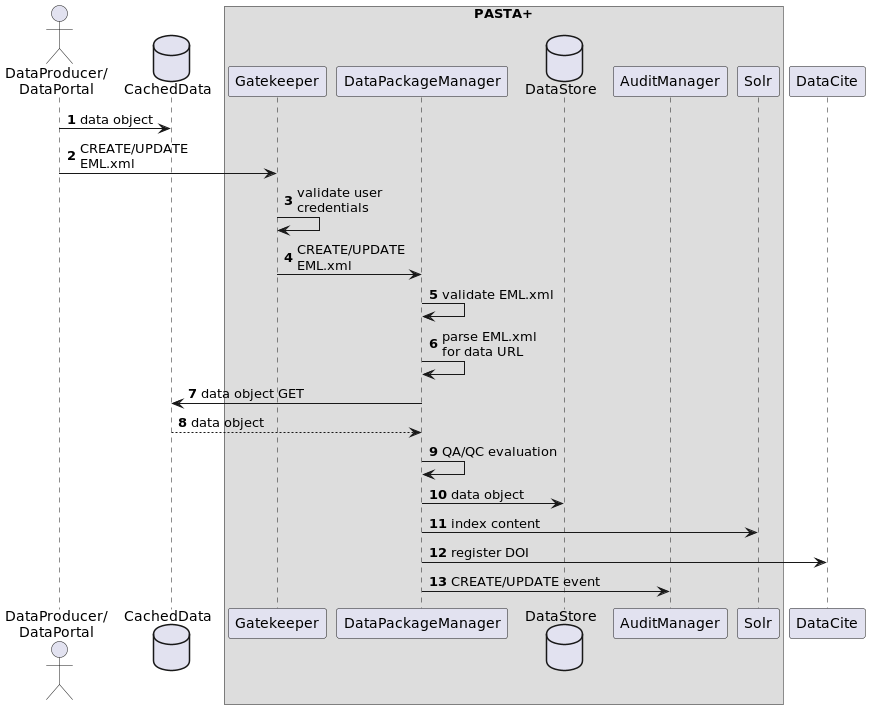
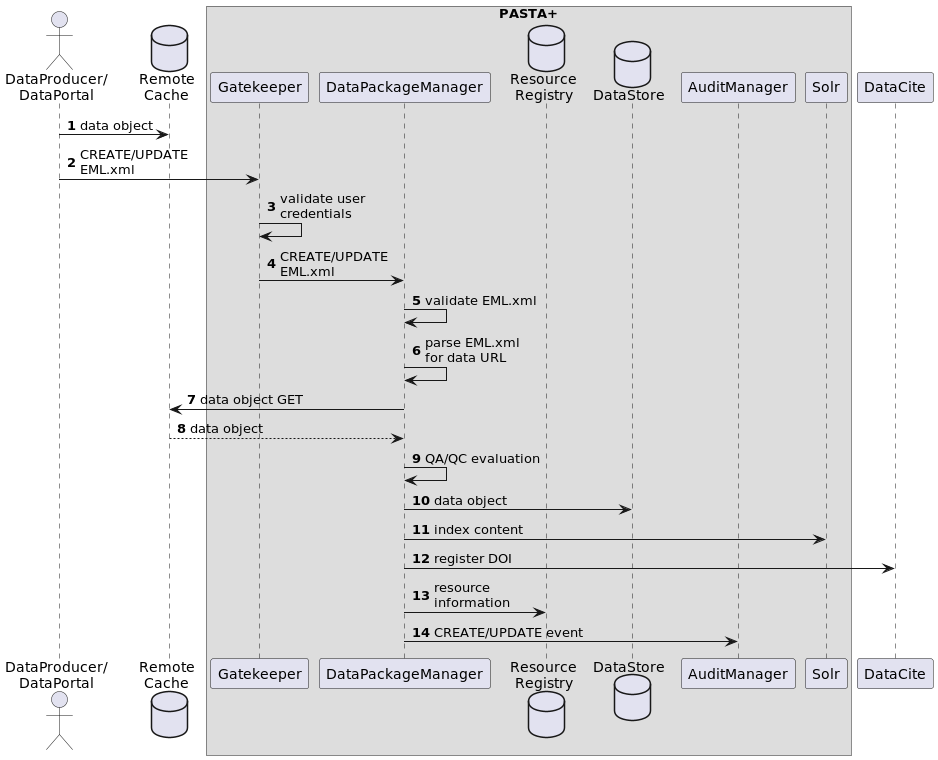
Update content

Changed region(s): [[0.0, 0.0, 1.0, 1.0], [0.7448, 0.6827, 0.8069, 0.7137]]

diff --git a/documentation/doc_tree/pasta_sop/archive_life_cycle.rst b/documentation/doc_tree/pasta_sop/archive_life_cycle.rst
@@ -35,12 +35,14 @@ writes them to a permanent data store (**Step 10**). Next, the *Data Package
 Manager* extracts specific search information from the EML and indexes it in the
 *Solr* search service (**Step 11**), followed by the creation and registration
 of a Digital Object Identifier (DOI) for the data package to the *DateCite* DOI
-registry (**Step 12**). Finally, the *Data Package Manager* generates an audit
-event and registers it with the *Audit Manager* service (**Step 13**).
+registry (**Step 12**). Next, the data package resource information is recorded
+in the *resource registry* database table (**Step 13**). Finally, the Data
+Package Manager* generates an audit event and registers it with the *Audit
+Manager* service (**Step 14**).
 
 .. figure:: images/archive_life_cycle.png
     :align: center
-    :scale: 100%
+    :scale: 80%
 
     UML sequence diagram of a data package life cycle in the EDI data
     repository.
@@ -103,15 +105,64 @@ package -- older revisions are overwritten within the index.
 Object Identifier* (DOI) with *DataCite*, a DOI registrar that specifically
 supports DOI registration of data objects. The DOI value is generated on a
 unique namespace value associated with the data package. EDI is a direct
-member of DataCite and is assigned the DOI shoulder value of `10.6073`.
+member of DataCite and is assigned the DOI shoulder value of `10.6073`. If
+the registration request to DataCite fails, the *Data Package Manager* will
+reattempt to perform the registration on hourly basis until a successful
+registration occurs.
 
-**Step 13:** The final step of the life cycle occurs when the *Data Package
-Manager* inserts a repository audit event record into the *event database table*
+**Step 13:** At this point in the life cycle, the *Data Package Manager* sets
+data package resource information (information about each component of the data
+package) into the *resource registry* database table. The schema definition
+for the table is below:
+
+.. code-block:: sql
+
+    CREATE TYPE datapackagemanager.resource_type AS ENUM ('data', 'dataPackage', 'metadata', 'report');
+    CREATE TABLE datapackagemanager.resource_registry (
+      resource_id VARCHAR(350) NOT NULL,                        -- resource id, the primary key
+      doi VARCHAR(256),                                         -- digital object identifier (DOI)
+      resource_type datapackagemanager.resource_type NOT NULL,  -- resource type
+      resource_location VARCHAR(500),                           -- root location for this resource (referenced by entity resources only)
+      package_id VARCHAR(100) NOT NULL,                         -- the EML 'packageId' attribute value
+      scope VARCHAR(100) NOT NULL,                              -- the scope
+      identifier INT8 NOT NULL,                                 -- the identifier
+      revision INT8 NOT NULL,                                   -- the revision
+      entity_id VARCHAR(256),                                   -- the entity id (as appears in the URL)
+      entity_name VARCHAR(256),                                 -- the entity name (as appears in the EML)
+      principal_owner VARCHAR(250) NOT NULL,                    -- the principal who owns this resource
+      date_created TIMESTAMP NOT NULL,                          -- creation date/time
+      date_deactivated TIMESTAMP,                               -- deactivation date/time; NULL indicates still active
+      filename TEXT,                                            -- the filename of this resource
+      md5_checksum CHAR(32),                                    -- MD5 checksum of this resource, a 32-character hexadecimal string
+      sha1_checksum CHAR(40),                                   -- SHA-1 checksum of this resource, a 40-character hexadecimal string
+      format_type VARCHAR(100),                                 -- the metadata format type, e.g. 'eml://ecoinformatics.org/eml-2.1.1'
+      mime_type VARCHAR(100),                                   -- the mime type, e.g. 'text/csv'
+      resource_size BIGINT,                                     -- the size of the resource in bytes
+      data_format TEXT,                                         -- the data format as determined by parsing the EML
+    );
+
+
+**Step 14:** The final step of the life cycle occurs when the *Data Package
+Manager* inserts a repository audit event record into the *event* database table
 of the :doc:`Audit Manager </doc_tree/pasta_design/audit_manager>` service.
-This audit event includes 1) the user identifier and group associations, 2) the
-date and time of the event, 3) the service requested, 4) the outcome status of
-the event, 5) the resource identifier resulting from the event, and 6) any
-accessory information associated with the event.
+The schema definition for the table is below:
+
+.. code-block:: sql
+
+    CREATE TABLE auditmanager.eventlog (
+       oid numeric primary key,           -- oid primary key
+       entryTime timestamp not null,      -- entry creation date/time
+       service varchar(32) not null,      -- the PASTA+ main service
+       category varchar(8) not null,      -- the event status code
+       serviceMethod varchar(128),        -- the specific PASTA+ service method
+       entryText text,                    -- event human readable information
+       resourceId varchar(128),           -- resource id
+       statusCode numeric,                -- http status code of the event
+       userid varchar(128),               -- user identifier of event requester
+       userAgent text,                    -- http user agent code
+       groups varchar(512),               -- user groups of event requester
+       authSystem varchar(128)            -- authentication system
+    );
 
 Note that any failure to pass validation or verification that occurs in steps
 5-9 prevents the data package from proceeding into archive status in the

diff --git a/documentation/doc_tree/pasta_sop/backup.rst b/documentation/doc_tree/pasta_sop/backup.rst
@@ -5,5 +5,67 @@ Replication and Backup Strategies
 Replication and backup strategies ensure all data packages are secure and
 recoverable in the event of a catastrophic failure of the primary data store.
 
+Replication and Backup
+----------------------
+
+The *replication* and the *backup* of a data package is similar: replication is
+a verbatim copy of the entire data store, including directory paths, object
+ownership and permissions, and occurs almost immediately when new data package
+components are written to the primary data store, where as a backup is a copy of
+the data package object bytes and possibly the directory paths, but not
+necessarily ownership or permissions. Replication only occurs between the
+primary data store and the mirror data store (see UML diagram below). Backup
+processing occurs at multiple points and at multiple time-scales within the data
+management system.
+
+.. figure:: images/backup.png
+    :align: center
+    :scale: 100%
+
+    UML sequence diagram of data package backup events and frequency in the
+    EDI data repository.
+
+Key Steps
+^^^^^^^^^
+
+**Step 1:** Archival data package components are written directly to a block
+storage filesystem in a directory hierarchy defined by the repository’s internal
+identification system. This block storage system consists of a 56TB NetApp
+storage array hosted by the Center for Advanced Research Computing at the
+University of New Mexico (UNM), Albuquerque, New Mexico USA.
+
+**Step 2:** These components are replicated simultaneously to an
+identical NetApp storage array at the university’s Central Information
+Technology center, also in Albuquerque, and are available only for fault
+recovery purposes.
+
+**Step 3:** The data package metadata objects are synchronized with DataONE (an
+ecological metadata aggregator operated by the University of California Santa
+Barbara) on an hourly basis.
+
+**Steps 4:** In addition to the primary and secondary block storage systems,
+all data and metadata are synchronized nightly to a fixed multi-terabyte backup
+system in the EDI office building, also located at UNM.
+
+**Step 5:** Data package components located on the fixed backup system are
+written to a removable 8TB backup SSD disk. There are two
+SSD disks and these are rotated on a weekly basis, with the offline disk being
+stored in an environmentally protected safe in the EDI office building. Only
+data packages consider high-value (those that are not available by other means
+- for example, Landsat remote sensing data that is also available from the
+United States Geological Survey) are copied to removable media.
+
+**Steps 6 & 7:** Finally, a compressed version (Linux ``tar`` and ``gzip``)
+of the data package is written to Amazon Web Services S3 Glacier online storage
+for off site redundancy.
+
+Consistency between the primary and secondary block storage systems occurs
+through internal controller software, while other replicated storage undergoes
+automatic fixity checks on a continuous basis. Consistency of data packages on
+Glacier occur rarely and are a manual process. The risk management strategy used
+to inform this process is primarily “Lots of Copies Keeps Stuff Safe” (LOCKSS),
+in addition to ensuring copies are geographically distributed. Longer term
+storage is being coordinated with the Dryad Digital Repository.
+
 .. toctree::
     :hidden:

diff --git a/documentation/doc_tree/about.rst b/documentation/doc_tree/about.rst
@@ -22,14 +22,14 @@ Tracking Architecture, in July 2016, with the end of the LTER Network Office
 project and the beginning of the Environmental Data Initiative. Informally, we
 still refer to the software as "PASTA."
 
-The PASTA data repository software is managed by the `Environmental Data
+The PASTA+ data repository software is managed by the `Environmental Data
 Initiative <https://edirepository.org>`_ (EDI), a National Science Foundation
 (NSF) funded project through the Division of Biological Infrastructure (DBI)
 under grants #2223103 and #2223104 at the University of Wisconsin and the
 University of New Mexico, respectively. The principal investigators of EDI are
-Dr. Corinna Gries and Dr. Mark Servilla. EDI has been operating since July 2016
-and is a publisher and archivist of science data for the environmental and
-ecological science communities. EDI provides key services and technical
+Dr. Corinna Gries (UW) and Dr. Mark Servilla (UNM). EDI has been operating since
+July 2016 and is a publisher and archivist of science data for the environmental
+and ecological science communities. EDI provides key services and technical
 expertise to the scientific community that ensure environmental and ecological
 data are well curated and accessible for discovery and re-use well into the
 future. We assist researchers from field stations, individual laboratories, and

diff --git a/documentation/index.rst b/documentation/index.rst
@@ -13,20 +13,22 @@ utilizes PASTA in its operation of the *EDI data repository*.
 
 Documentation is divided into the following categories:
 
-#. **About:** A short history of PASTA+ and how it is being used in a
-   production environment.
+#. **About:** A short history of the PASTA+ data repository software and how it
+   is being used in EDI's production environment.
 
-#. **Repository Design:** Design documentation of the PASTA+ data repository.
+#. **Repository Design:** Design documentation of the PASTA+ data repository
+   software.
 
 #. **Standard Operating Procedures:** Procedures for the general operation of
-   the PASTA+ data repository.
+   the EDI data repository using the PASTA+ data repostiory software.
 
-#. **REST API:** Documentation for the PASTA API and general information and
+#. **REST API:** Documentation for the PASTA+ API and general information and
    suggestions for software developers who would like to build an application
-   that interacts with the PASTA API.
+   that interacts with the PASTA+ API.
 
 #. **Frequently Asked Questions:** A list of the most commonly asked questions
-   and their answers about the EDI Data Repository and PASTA.
+   and their answers about the EDI Data Repository and PASTA+ data repository
+   software.
 
 
 .. toctree::
